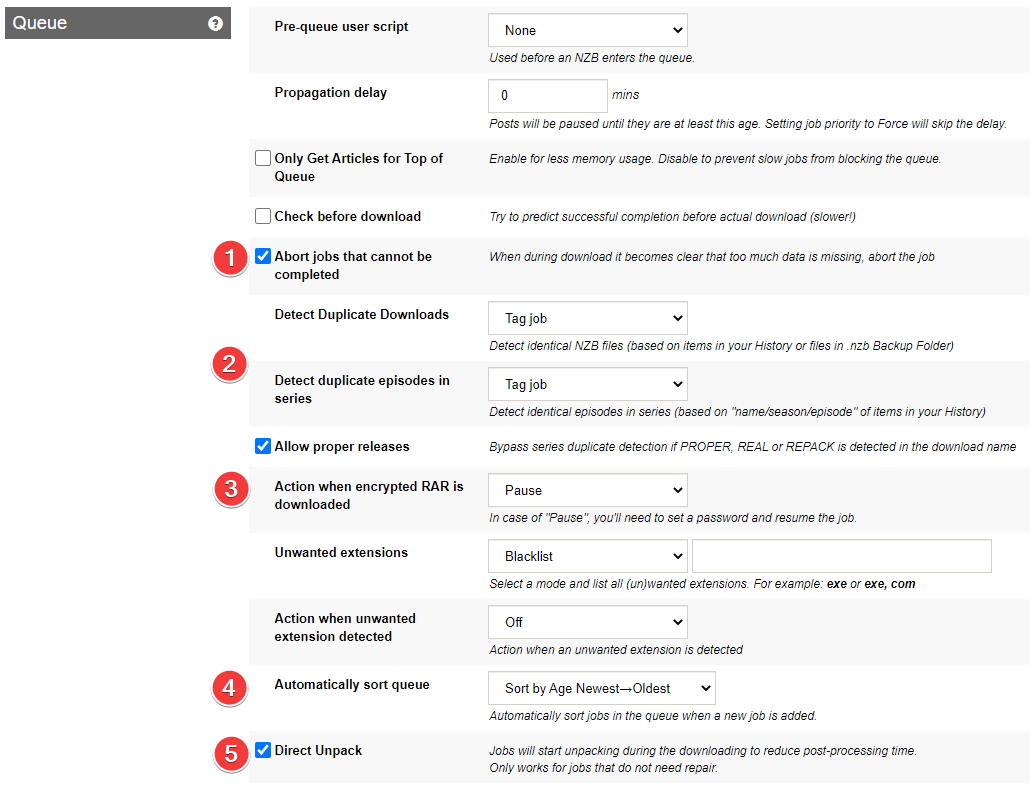
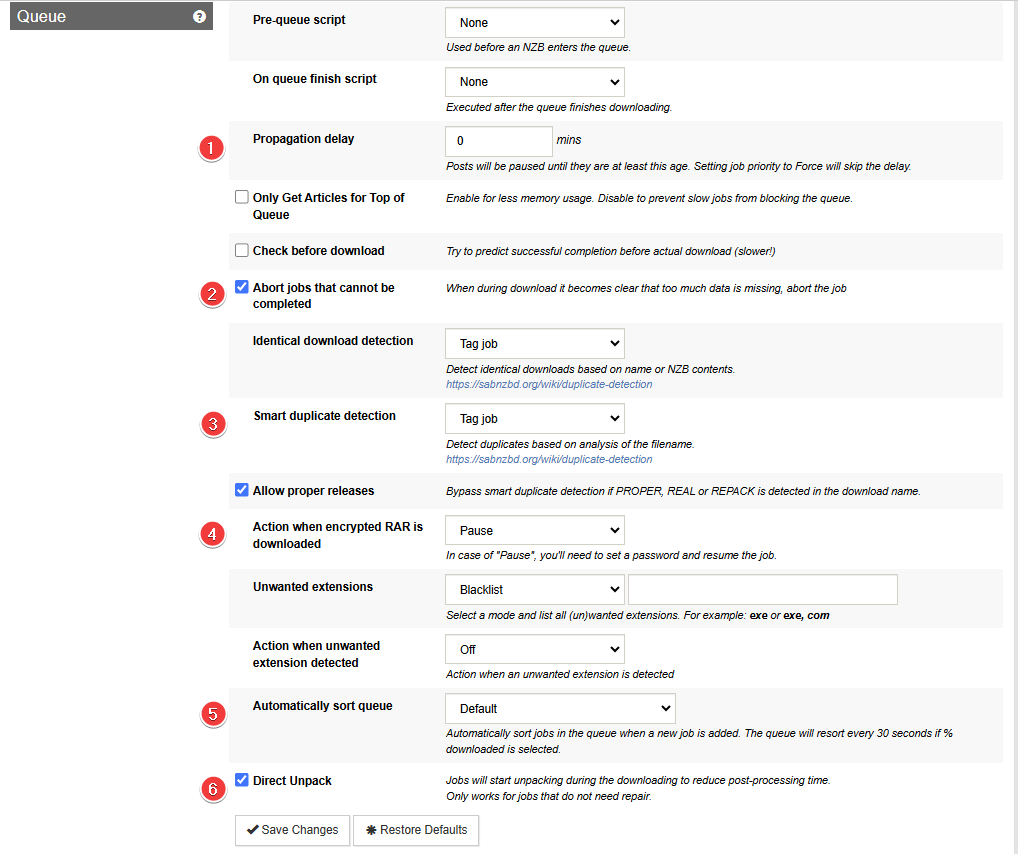
feat(guides): Update SABnzbd guide

diff --git a/docs/Downloaders/SABnzbd/Basic-Setup.md b/docs/Downloaders/SABnzbd/Basic-Setup.md
@@ -12,7 +12,7 @@
 
 ## General
 
-[Sabnzbd Documentation](https://sabnzbd.org/wiki/configuration/4.0/general){:target="_blank" rel="noopener noreferrer"}
+[Sabnzbd Documentation](https://sabnzbd.org/wiki/configuration/4.3/general){:target="_blank" rel="noopener noreferrer"}
 
 ### Tuning
 
@@ -25,7 +25,7 @@ I recommend setting a sane maximum speed and then limiting below that, to keep y
 
 ## Folders
 
-[Sabnzbd Documentation](https://sabnzbd.org/wiki/configuration/4.0/folders){:target="_blank" rel="noopener noreferrer"}
+[Sabnzbd Documentation](https://sabnzbd.org/wiki/configuration/4.3/folders){:target="_blank" rel="noopener noreferrer"}
 
 ### User Folders
 
@@ -42,13 +42,16 @@ Here you setup your download path/location.
 `Settings` => `Folders` => `System Folders`
 ![!Folders: System Folders](images/sabnzbd-folders-system-folders.png)
 
-I recommend the .nzb Backup Folder because sabnzbd doesn't have a hidden history and having remove from history enabled in Sonarr/Radarr is the best method. This allows you to see your past downloads and it is used for duplicate download detection/prevention. Default is empty, I picked history because it is easy. It'll end up in the `/config` folder for Docker, which isn't crazy... but this is literally compressed nzb files, so can end up pretty big. But the choice is yours what you prefer.
+!!! info "Starting from 4.3.x+ SABnzbd has a hidden (archive) history."
+
+It's still recommended to use the .nzb Backup Folder its still useful for dupe detection (hash matching) or just need to retry something from the past.
+Default is empty, I picked history because it is easy. It'll end up in the `/config` folder for Docker, which isn't crazy... but this is literally compressed nzb files, so can end up pretty big. But the choice is yours what you prefer.
 
 ------
 
 ## Servers
 
-[Sabnzbd Documentation](https://sabnzbd.org/wiki/configuration/4.0/servers){:target="_blank" rel="noopener noreferrer"}
+[Sabnzbd Documentation](https://sabnzbd.org/wiki/configuration/4.3/servers){:target="_blank" rel="noopener noreferrer"}
 
 `Settings` => `Servers` => `Add Server`
 ![!Servers](images/sabnzbd-servers.png)
@@ -70,7 +73,7 @@ I recommend the .nzb Backup Folder because sabnzbd doesn't have a hidden history
 
 ## Categories
 
-[Sabnzbd Documentation](https://sabnzbd.org/wiki/configuration/4.0/categories){:target="_blank" rel="noopener noreferrer"}
+[Sabnzbd Documentation](https://sabnzbd.org/wiki/configuration/4.3/categories){:target="_blank" rel="noopener noreferrer"}
 
 `Settings`=> `Categories`
 
@@ -80,17 +83,18 @@ Covered and fully explained in [SABnzbd - Paths and Categories](/Downloaders/SAB
 
 ## Switches
 
-[Sabnzbd Documentation](https://sabnzbd.org/wiki/configuration/4.0/switches){:target="_blank" rel="noopener noreferrer"}
+[Sabnzbd Documentation](https://sabnzbd.org/wiki/configuration/4.3/switches){:target="_blank" rel="noopener noreferrer"}
 
 ### Queue
 
 `Settings` => `Switches` => `Queue`
 ![!Switches: Queue](images/sabnzbd-switches-queue.png)
 
+1. If you have really good indexers that get nzb from post not generated then some people might want Propagation delay  set to 5 min. so your not trying to grab a nzb 0 mins from posting and if your not getting it from the same server the poster used you might wrongly have article missing since it hasn't propagated to your server.. or if you use a reseller it may take them longer to get it from their upstream.
 1. When during download it becomes clear that too much data is missing, abort the job. and makes sure Sonarr/Radarr will get a notification and can look for another release.
 1. Since we have the .nzb history folder, you can decide what you want to do here w/ duplicate downloads. Mine is set to Tag job, but Pause or Fail job may make sense too.
 1. In case of "Pause", you'll need to set a password and resume the job. or you set it to "Abort" and Sonarr/Radarr can look for another release.
-1. Suggest this sort so that the most likely to still be there stuff is downloaded first.
+1. This should be set to Default. unless you know what your doing, as if someone has a decent size queue you have sab every 30s sort which could cause spikes in cpu due to it, let alone shuffling jobs around that may be in middle of actions so moving something in front of it could cause that job to take even longer to extract/stall waiting for next update as with sab by default you can only have 3 unpackers going (configurable).
 1. If your hardware isn't up to snuff, including cpu and/or io performance, disabling Direct Unpack and/or enabling Pause Downloading During Post-Processing can help. Defaults are fine for most hardware though.
 
 ### Post processing
@@ -116,7 +120,7 @@ Covered and fully explained in [SABnzbd - Paths and Categories](/Downloaders/SAB
 ## Special
 
 Rarely used options.
-Don't change these without checking the [SABnzbd Wiki](https://sabnzbd.org/wiki/configuration/4.0/special){:target="_blank" rel="noopener noreferrer"} first, as some have serious side-effects.
+Don't change these without checking the [SABnzbd Wiki](https://sabnzbd.org/wiki/configuration/4.3/special){:target="_blank" rel="noopener noreferrer"} first, as some have serious side-effects.
 The default values are between parentheses.
 
 ### Unable to connect to SABnzbd
